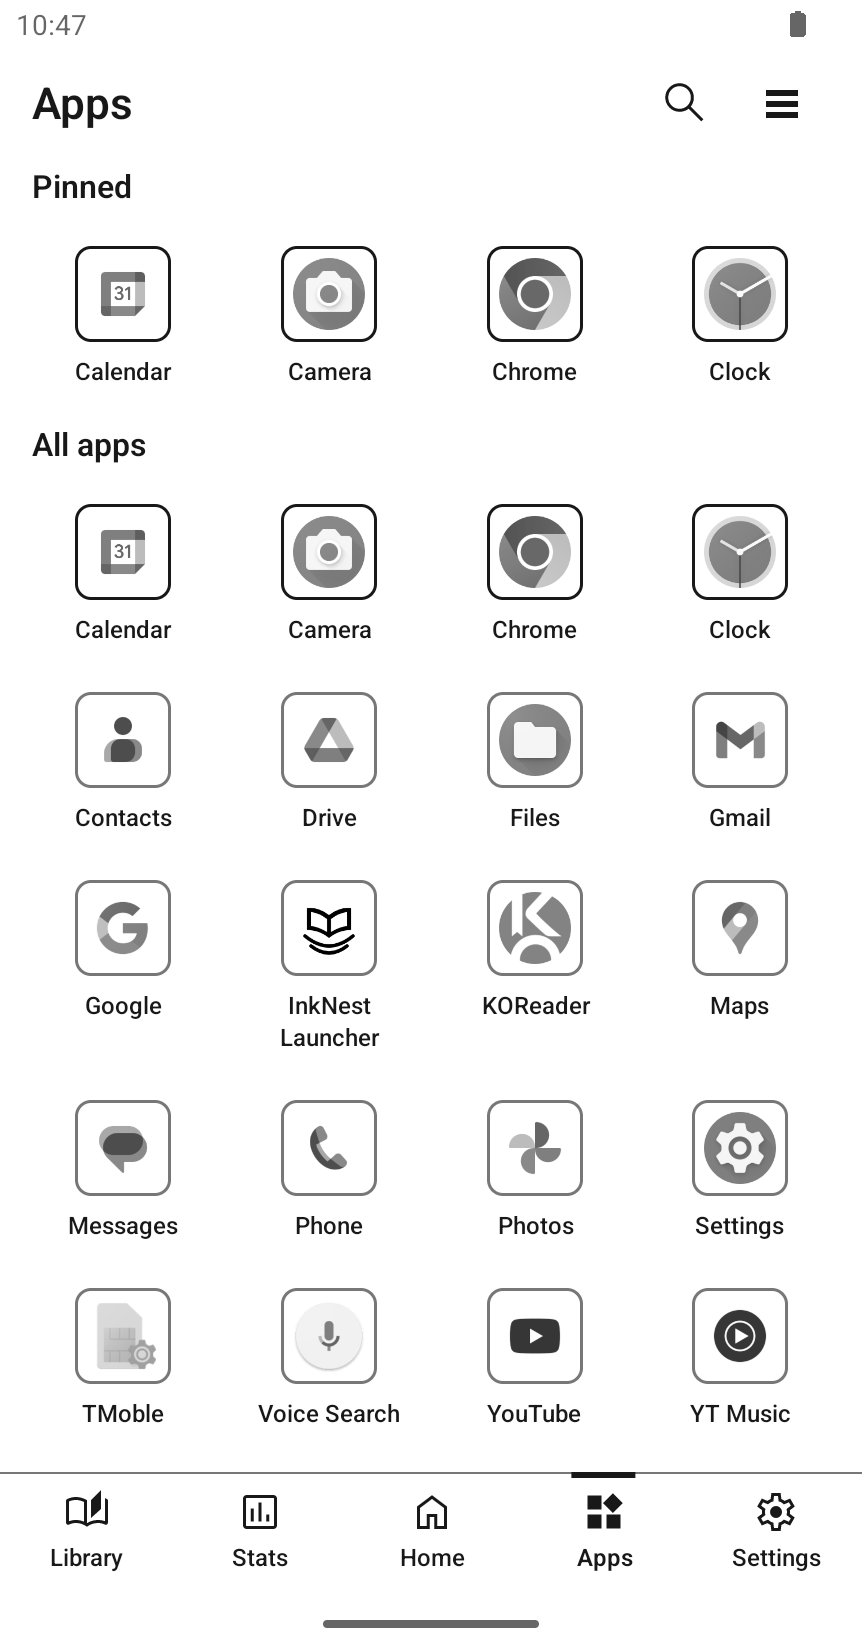
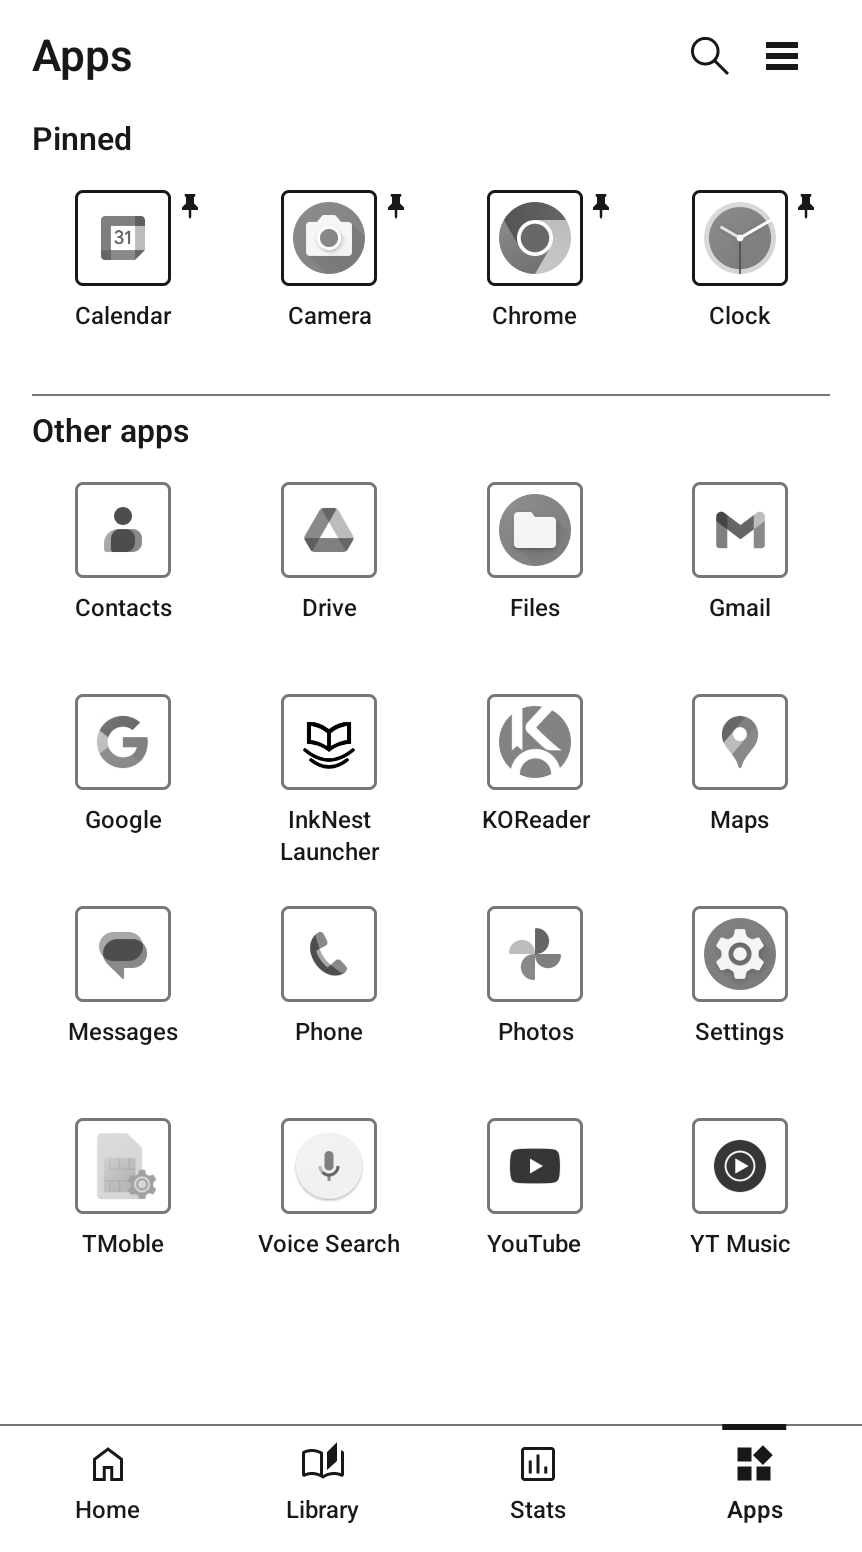
docs: refresh README screenshots

diff --git a/README.md b/README.md
@@ -24,16 +24,15 @@ InkNest is an offline Android launcher built around reading on E-Ink devices. Br
 
 | Home | Library | Statistics |
 | --- | --- | --- |
-| <img src="docs/assets/screenshots/home.png" alt="Home with current reading, activity calendar and pinned apps" width="260"> | <img src="docs/assets/screenshots/library.png" alt="Library grid with sample book covers, authors and reading progress" width="260"> | <img src="docs/assets/screenshots/statistics.png" alt="Reading time, daily trend and activity calendar" width="260"> |
+| <img src="docs/assets/screenshots/home.png" alt="Home with current reading, activity calendar and quick access to pinned apps" width="260"> | <img src="docs/assets/screenshots/library.png" alt="Library grid with sample book covers, authors and reading progress" width="260"> | <img src="docs/assets/screenshots/statistics.png" alt="Reading time, monthly trend and activity calendar" width="260"> |
 
-<details>
-<summary>Apps and settings</summary>
+| Apps | Book details | Day details |
+| --- | --- | --- |
+| <img src="docs/assets/screenshots/apps.png" alt="Pinned apps and installed apps in a grayscale grid" width="260"> | <img src="docs/assets/screenshots/book-details.png" alt="Book cover, progress, reading statistics and daily reading history for Walden" width="260"> | <img src="docs/assets/screenshots/day-details.png" alt="Reading time, recorded pages and linked books for a selected day" width="260"> |
 
-| Apps | Settings |
+| Settings | App updates |
 | --- | --- |
-| <img src="docs/assets/screenshots/apps.png" alt="Pinned apps and installed apps in a grayscale grid" width="300"> | <img src="docs/assets/screenshots/settings.png" alt="Settings for reading data, appearance, launcher and About" width="300"> |
-
-</details>
+| <img src="docs/assets/screenshots/settings.png" alt="Settings for reading data, appearance, launcher and About" width="260"> | <img src="docs/assets/screenshots/app-updates.png" alt="App updates with current and latest versions, download details and release notes" width="260"> |
 
 Screenshots captured on an Android 14 emulator in E-Ink mode with synthetic reading data and sample covers.
 
